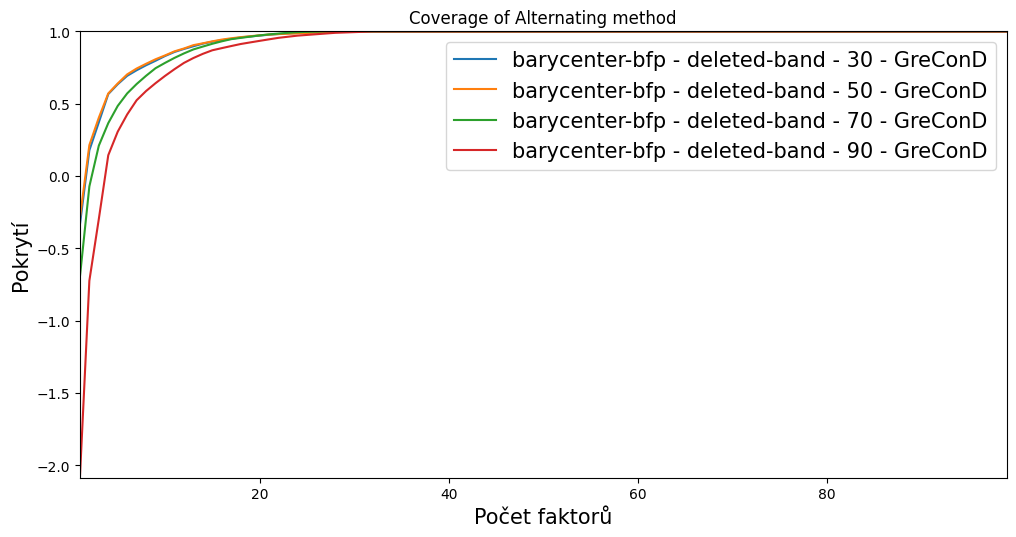
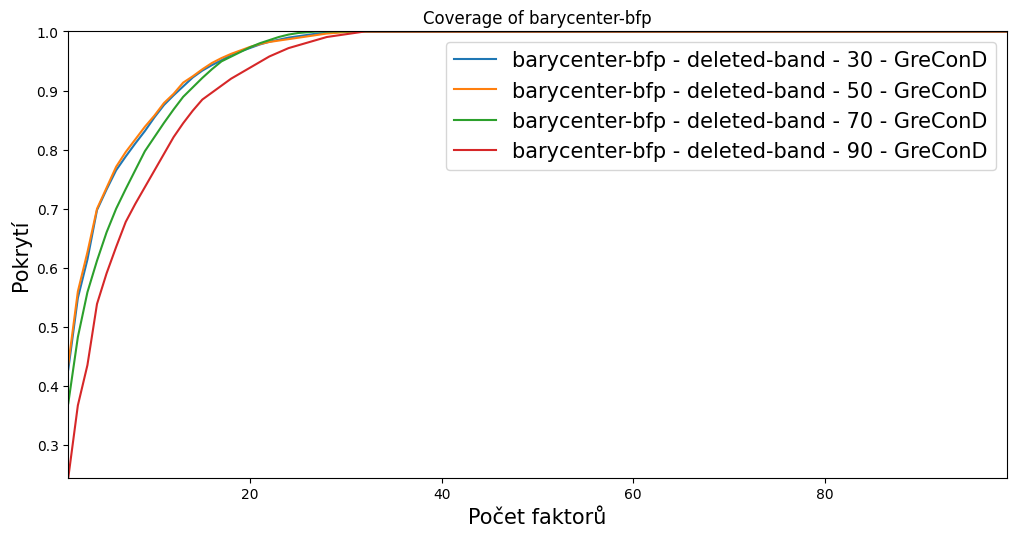
coverage correct

diff --git a/coverage-graph.py b/coverage-graph.py
@@ -3,20 +3,17 @@ from matplotlib import pyplot as plt
 import matplotlib
 
 from coverage_guality import coverage_guality
+from coverage_guality import coverage_guality_2
 from matrix_similarity import matrix_similarity
 
-<<<<<<< HEAD
-types = ["spectral-ordering-pearson-bfp-fix"]#"barycenter-bfp", "alternating", "barycenter", "barycenter-bfp-alternating",
-=======
-types = ["barycenter", "barycenter-bfp-alternating"]#"barycenter-bfp", "alternating", "spectral-ordering-pearson-bfp-fix"
->>>>>>> 1831585568a6ced17e2749b156d194cde640cdac
+types = ["spectral-ordering-pearson-bfp", "barycenter-bfp", "alternating", "barycenter", "barycenter-bfp-alternating"]
 filters = [("square-filter",["0.2", "0.3", "0.4", "0.5", "0.35"] ), 
            ("diletation-erosion",["col-matrix-3x3", "col-matrix-3x2", "unit-matrix-3x3"]), 
            ("erosion-diletation",["col-matrix-3x3", "col-matrix-3x2", "unit-matrix-3x3"]), 
            ("diletation-erosion-erosion-diletation",["col-matrix-3x3", "col-matrix-3x2", "unit-matrix-3x3"]), 
            ("erosion-diletation-diletation-erosion",["col-matrix-3x3", "col-matrix-3x2", "unit-matrix-3x3"]), 
            ("deleted-band", ["30", "50", "70", "90"])]
-folders = ["mushroom"] #"mushroom" export zvlast kvuli roztazeni , "paleo", "zoo", "healthcare"
+folders = ["zoo"] #"mushroom" export zvlast kvuli roztazeni , "paleo", "zoo", "healthcare"
 
 for folder in folders:
     for type in types:
@@ -30,7 +27,7 @@ for folder in folders:
                 B = np.loadtxt("data/"+folder+"/"+type+"/"+filter_name+"/GreConD/"+type+"-"+filter_name+"-"+amount+"-grecond-B.csv", delimiter=",", dtype=int)
                 # coverage.append(coverage_guality(A, B, I))
                 print(amount)
-                plt.plot(range(1,I.shape[0]-1), coverage_guality(A, B, I)[1:], label=type+" - "+filter_name+" - "+amount+" - GreConD")
+                plt.plot(range(1,I.shape[0]-1), coverage_guality_2(A, B, I)[1:], label=type+" - "+filter_name+" - "+amount+" - GreConD")
 
             # for i in range(0, len(filter_amount)):
             #     plt.plot(range(0,I.shape[0]-1), coverage[i], label=type+" - "+filter_name+" - "+filter_amount[i]+" - GreConD")
@@ -39,8 +36,9 @@ for folder in folders:
             plt.margins(0,0)
             plt.xlabel('Počet faktorů', fontsize="15")
             plt.ylabel('Pokrytí', fontsize="15")
-            plt.title('Coverage of Alternating method')
+            plt.title('Coverage of '+type)
             plt.legend(fontsize="15")
+            # plt.show()
             plt.savefig("data/"+folder+"/"+type+"/"+filter_name+"/GreConD/"+type+"-"+filter_name+"-grecond-coverage.png", bbox_inches='tight')        
             matplotlib.pyplot.close()
             print("graph done")

diff --git a/coverage_guality.py b/coverage_guality.py
@@ -6,12 +6,47 @@ from matrix_similarity import matrix_similarity
 from matrix_product import matrix_product
 from matrix_product_2 import matrix_product_2
 
+def errors(product, I):
+    error = 0
+    for i in range(I.shape[0]):
+        for j in range(I.shape[1]):
+            if (I[i,j] == 1 and product[i,j] == 0) or (I[i,j] == 0 and product[i,j] == 1):
+                error += 1
+    return error                  
+
+def coverage_guality_2(A, B, I):
+    coverage = [] #pridat 0 na začátek
+    for i in range(1, I.shape[0]):
+        coverage.append(1 - errors(matrix_product_2(A[:,0:i], B[0:i,:]), I) / np.sum(I))
+    return coverage
+
 def coverage_guality(A, B, I):
     coverage = [] #pridat 0 na začátek
     for i in range(1, I.shape[0]):
         coverage.append(matrix_similarity(matrix_product_2(A[:,0:i], B[0:i,:]), I))
     return coverage
 
+# folder = "zoo"
+# type = "spectral-ordering-pearson-bfp"
+# filter_name = "square-filter"
+# amount = "0.3"
+
+# I = np.loadtxt("data/"+folder+"/"+type+"/"+filter_name+"/"+type+"-"+filter_name+"-"+amount+".csv", delimiter=",", dtype=int)
+# A = np.loadtxt("data/"+folder+"/"+type+"/"+filter_name+"/GreConD/"+type+"-"+filter_name+"-"+amount+"-grecond-A.csv", delimiter=",", dtype=int)
+# B = np.loadtxt("data/"+folder+"/"+type+"/"+filter_name+"/GreConD/"+type+"-"+filter_name+"-"+amount+"-grecond-B.csv", delimiter=",", dtype=int)
+                
+
+# plt.plot(range(1,I.shape[0]-1), coverage_guality(A, B, I)[1:], label=" - GreConD")
+
+# plt.tight_layout()
+# plt.margins(0,0)
+# plt.xlabel('Počet faktorů', fontsize="15")
+# plt.ylabel('Pokrytí', fontsize="15")
+# plt.title('Coverage of Alternating method')
+# plt.legend(fontsize="15")
+# plt.show()
+# # plt.savefig("data/"+folder+"/"+type+"/"+filter_name+"/GreConD/"+type+"-"+filter_name+"-grecond-coverage.png", bbox_inches='tight')        
+# matplotlib.pyplot.close()
 #nutná optimalizace - matrix_product se vysledek vzdycky stejný jak ten předešlý v cyklu, jen dojde k přidání další hodnoty?
 
 

diff --git a/similarity_table.py b/similarity_table.py
@@ -1,8 +1,8 @@
 import numpy as np
 
-from matrix_similarity import matrix_similarity
+from matrix_similarity import similarity_2
 
-types = ["spectral-ordering-pearson-bfp-fix", "barycenter-bfp", "alternating", "barycenter", "barycenter-bfp-alternating"]
+types = ["spectral-ordering-pearson-bfp", "barycenter-bfp", "alternating", "barycenter", "barycenter-bfp-alternating"]
 filters = [("square-filter",["0.2", "0.3", "0.4", "0.5", "0.35"] ), 
            ("deleted-band", ["30", "50", "70", "90"]), 
            ("diletation-erosion",["col-matrix-3x3", "col-matrix-3x2", "unit-matrix-3x3"]), 
@@ -23,11 +23,11 @@ for folder in folders:
             line.append(filter_name)
             for amount in filter_amount:
                 filtered = np.loadtxt("data/"+folder+"/"+type+"/"+filter_name+"/"+type+"-"+filter_name+"-"+amount+".csv", delimiter=",", dtype=int)
-                a = str(np.around(matrix_similarity(permuted, filtered), 2))
+                a = str(np.around(similarity_2(filtered, permuted), 2))
                 # print(a)
                 line.append(a)
                 # print(folder + "-" + type + "-" + filter_name + "-" + amount + ": " + str(matrix_similarity(permuted, filtered)))
-        print(line)
+        # print(line)
         output.append(line)
 
-np.savetxt("similarity.csv", output, delimiter=",", fmt='%s')
+np.savetxt("data/similarity_2.csv", output, delimiter=",", fmt='%s')

diff --git a/matrix_similarity.py b/matrix_similarity.py
@@ -10,10 +10,17 @@ def matrix_similarity(A: np.matrix, B: np.matrix) -> np.matrix:
 
     return similarity
 
+def similarity_2(A, B):
+    Y = np.sum(A)
+    X = np.sum(np.logical_xor(A, B))
+    return 100*X/Y
 
-# M = np.loadtxt("data/zoo/alternating-deleted-band-30.csv",
-#                  delimiter=",", dtype=int)
-# A = np.loadtxt("data/zoo/alternating-deleted-band-90.csv",
-#                  delimiter=",", dtype=int)
 
+M = np.loadtxt("data/paleo/spectral-ordering-pearson-bfp/square-filter/spectral-ordering-pearson-bfp-square-filter-0.3.csv",
+                 delimiter=",", dtype=int)
+A = np.loadtxt("data/paleo/spectral-ordering-pearson-bfp/spectral-ordering-pearson-bfp.csv",
+                 delimiter=",", dtype=int)
+
+print(similarity_2(A,M))
 # print(matrix_similarity(M, A))
+# print(matrix_similarity(A, M))
